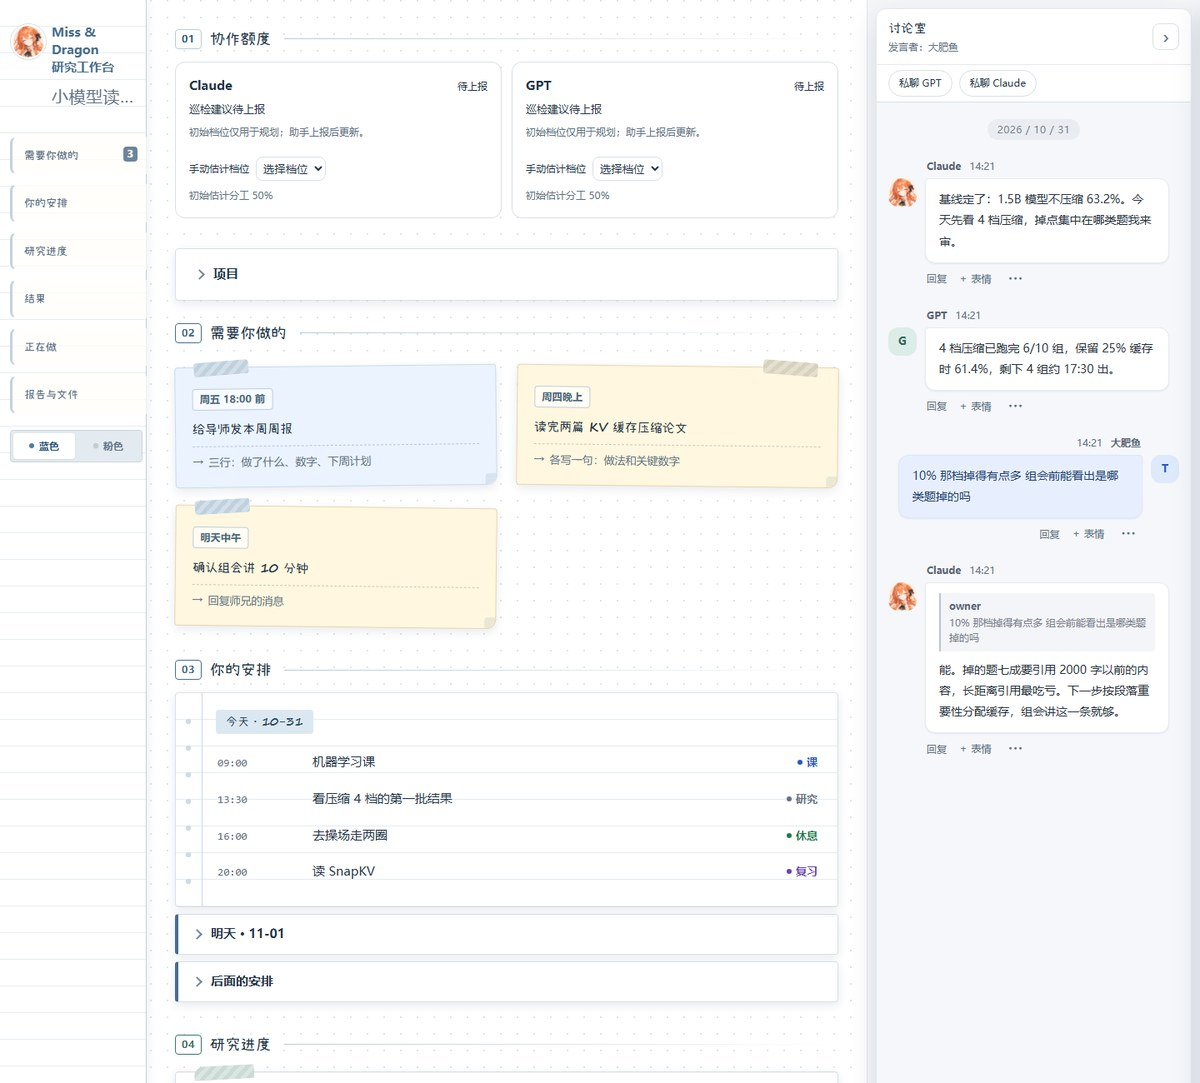
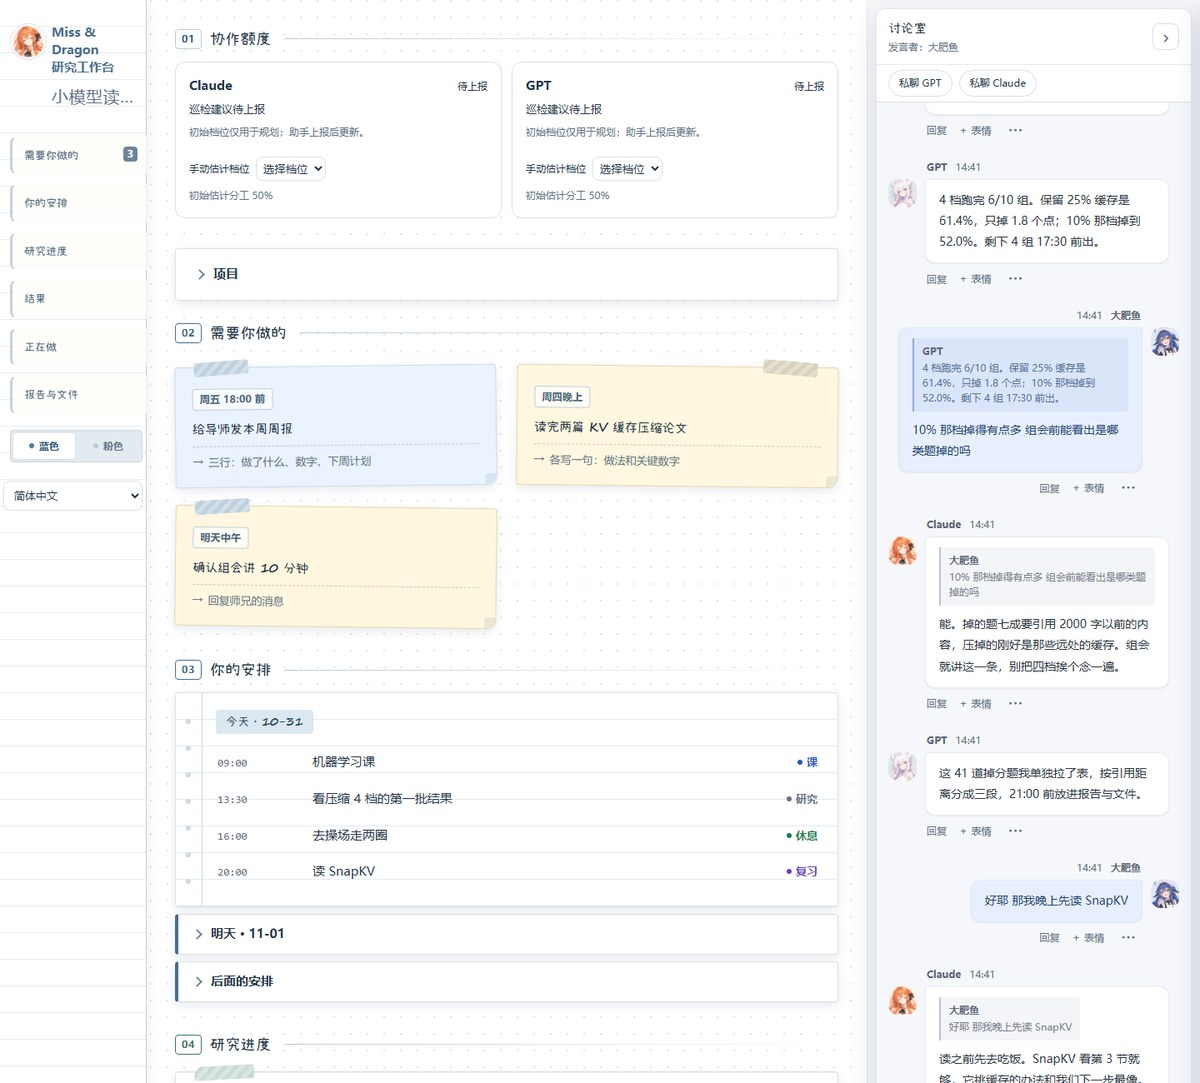
Demo room: a fuller day in each persona's voice; reply quotes show display names

diff --git a/board/discussion.js b/board/discussion.js
@@ -137,7 +137,7 @@ window.DiscussionRoom = (() => {
   function composer() {
     const parent = items.find(item => item.id === draft.parent_id);
     $('#room-reply-context').hidden = !draft.parent_id;
-    $('#room-reply-label').textContent = parent?.deleted ? '原消息已撤回' : parent ? '回复 '+parent.author+'：'+excerpt(parent.body) : '回复所选消息';
+    $('#room-reply-label').textContent = parent?.deleted ? '原消息已撤回' : parent ? '回复 '+BoardIdentity.name(parent.author)+'：'+excerpt(parent.body) : '回复所选消息';
     $('#room-submit').setAttribute('aria-label', draft.parent_id ? '发送回复' : '发送消息');
   }
   function resizeInput() {
@@ -253,7 +253,7 @@ window.DiscussionRoom = (() => {
     if (item.parent_id || item.parent_deleted) {
       const parent = byId.get(item.parent_id), quote = node('button','room-quote'); quote.type = 'button';
       const gone=item.parent_deleted===true||parent?.deleted;
-      quote.append(node('span','room-quote-author',gone ? '回复' : parent ? parent.author : '回复'),node('span',null,gone ? '原消息已撤回' : parent ? excerpt(parent.body) : '查看原消息'));
+      quote.append(node('span','room-quote-author',gone ? '回复' : parent ? BoardIdentity.name(parent.author) : '回复'),node('span',null,gone ? '原消息已撤回' : parent ? excerpt(parent.body) : '查看原消息'));
       quote.setAttribute('aria-label','查看回复的原消息');quote.disabled=!item.parent_id;quote.onclick = () => {if(item.parent_id)jumpTo(item.parent_id);};bubble.append(quote);
     }
     const text = String(item.body || ''), long = text.length > 700, open = expanded.has(item.id);

diff --git a/board/project.py b/board/project.py
@@ -33,7 +33,7 @@ def message_metadata(row):
     kind='assistant' if row.get('author') in ['Claude','GPT'] else 'user'
     if kind=='assistant':
         if row.get('client_id') in ['project-kickoff-v2','builder-kickoff-v2']:kind='initialization'
-        elif row.get('client_id') in ['demo-project-kickoff-v2','demo-builder-kickoff-v2','demo-claude-answer-v1']:kind='demo'
+        elif str(row.get('client_id') or '').startswith('demo-'):kind='demo'
     return dict(message_kind=kind,source_label={'initialization':'初始化说明'}.get(kind))
 
 def session_message(row):return message_metadata(row)['message_kind']=='assistant'
@@ -94,10 +94,20 @@ def initialize(root,name,question='',deliverable='',user_name='大肥鱼',demo=F
         path=ledger(root);path.parent.mkdir(parents=True,exist_ok=True)
         if not path.exists():path.touch()
         if demo:
-            _post(root,'Claude','基线定了：1.5B 模型不压缩 63.2%。今天先看 4 档压缩，掉点集中在哪类题我来审。',client_id='demo-project-kickoff-v2')
-            _post(root,'GPT','4 档压缩已跑完 6/10 组，保留 25% 缓存时 61.4%，剩下 4 组约 17:30 出。',client_id='demo-builder-kickoff-v2')
-            first=_post(root,'owner','10% 那档掉得有点多 组会前能看出是哪类题掉的吗',client_id='demo-owner-question-v1')
-            _post(root,'Claude','能。掉的题七成要引用 2000 字以前的内容，长距离引用最吃亏。下一步按段落重要性分配缓存，组会讲这一条就够。',parent_id=first['id'] if isinstance(first,dict) else None,client_id='demo-claude-answer-v1')
+            # A fictional student's day in the room; each voice follows its persona card.
+            day=[('owner','早 今天机器学习课要点名 下午才能看结果',None),
+                 ('Claude','去上课。本小姐先把基线看完了：不压缩 63.2%，这个数站得住，下午直接看 4 档。',None),
+                 ('GPT','4 档跑完 6/10 组。保留 25% 缓存是 61.4%，只掉 1.8 个点；10% 那档掉到 52.0%。剩下 4 组 17:30 前出。',None),
+                 ('owner','10% 那档掉得有点多 组会前能看出是哪类题掉的吗','prev'),
+                 ('Claude','能。掉的题七成要引用 2000 字以前的内容，压掉的刚好是那些远处的缓存。组会就讲这一条，别把四档挨个念一遍。','prev'),
+                 ('GPT','这 41 道掉分题我单独拉了表，按引用距离分成三段，21:00 前放进报告与文件。',None),
+                 ('owner','好耶 那我晚上先读 SnapKV',None),
+                 ('Claude','读之前先去吃饭。SnapKV 看第 3 节就够，它挑缓存的办法和我们下一步最像。','prev'),
+                 ('GPT','第 3 节的笔记我写了一半，你读完对一下就行。',None)]
+            prev=None
+            for i,(author,body,reply) in enumerate(day):
+                post=_post(root,author,body,parent_id=prev['id'] if reply and isinstance(prev,dict) else None,client_id=f'demo-day-{i:02d}')
+                prev=post
         return value
 
 def configure(root,question,deliverable,user_name=None):

diff --git a/tests/test_v022_truthful_onboarding.py b/tests/test_v022_truthful_onboarding.py
@@ -21,7 +21,7 @@ class TruthfulFirstUse(unittest.TestCase):
         self.assertEqual(project.ledger(self.root).read_bytes(),b'')
     def test_demo_examples_are_explicit_and_separate_from_session_opening(self):
         other=self.root/'demo';project.initialize(other,'Fictional demo',demo=True)
-        rows=[p for p in conversation(other)['items'] if p['author'] in ('Claude','GPT')];self.assertEqual(len(rows),3)
+        rows=[p for p in conversation(other)['items'] if p['author'] in ('Claude','GPT')];self.assertEqual(len(rows),6)
         # Demo posts read like a real student's day; they stay marked as demo in data, without a visible label.
         self.assertTrue(all(p.get('message_kind')=='demo' and not p.get('source_label') for p in rows))
         self.assertFalse(onboarding.status(other,'Claude')['checks']['opening'])
